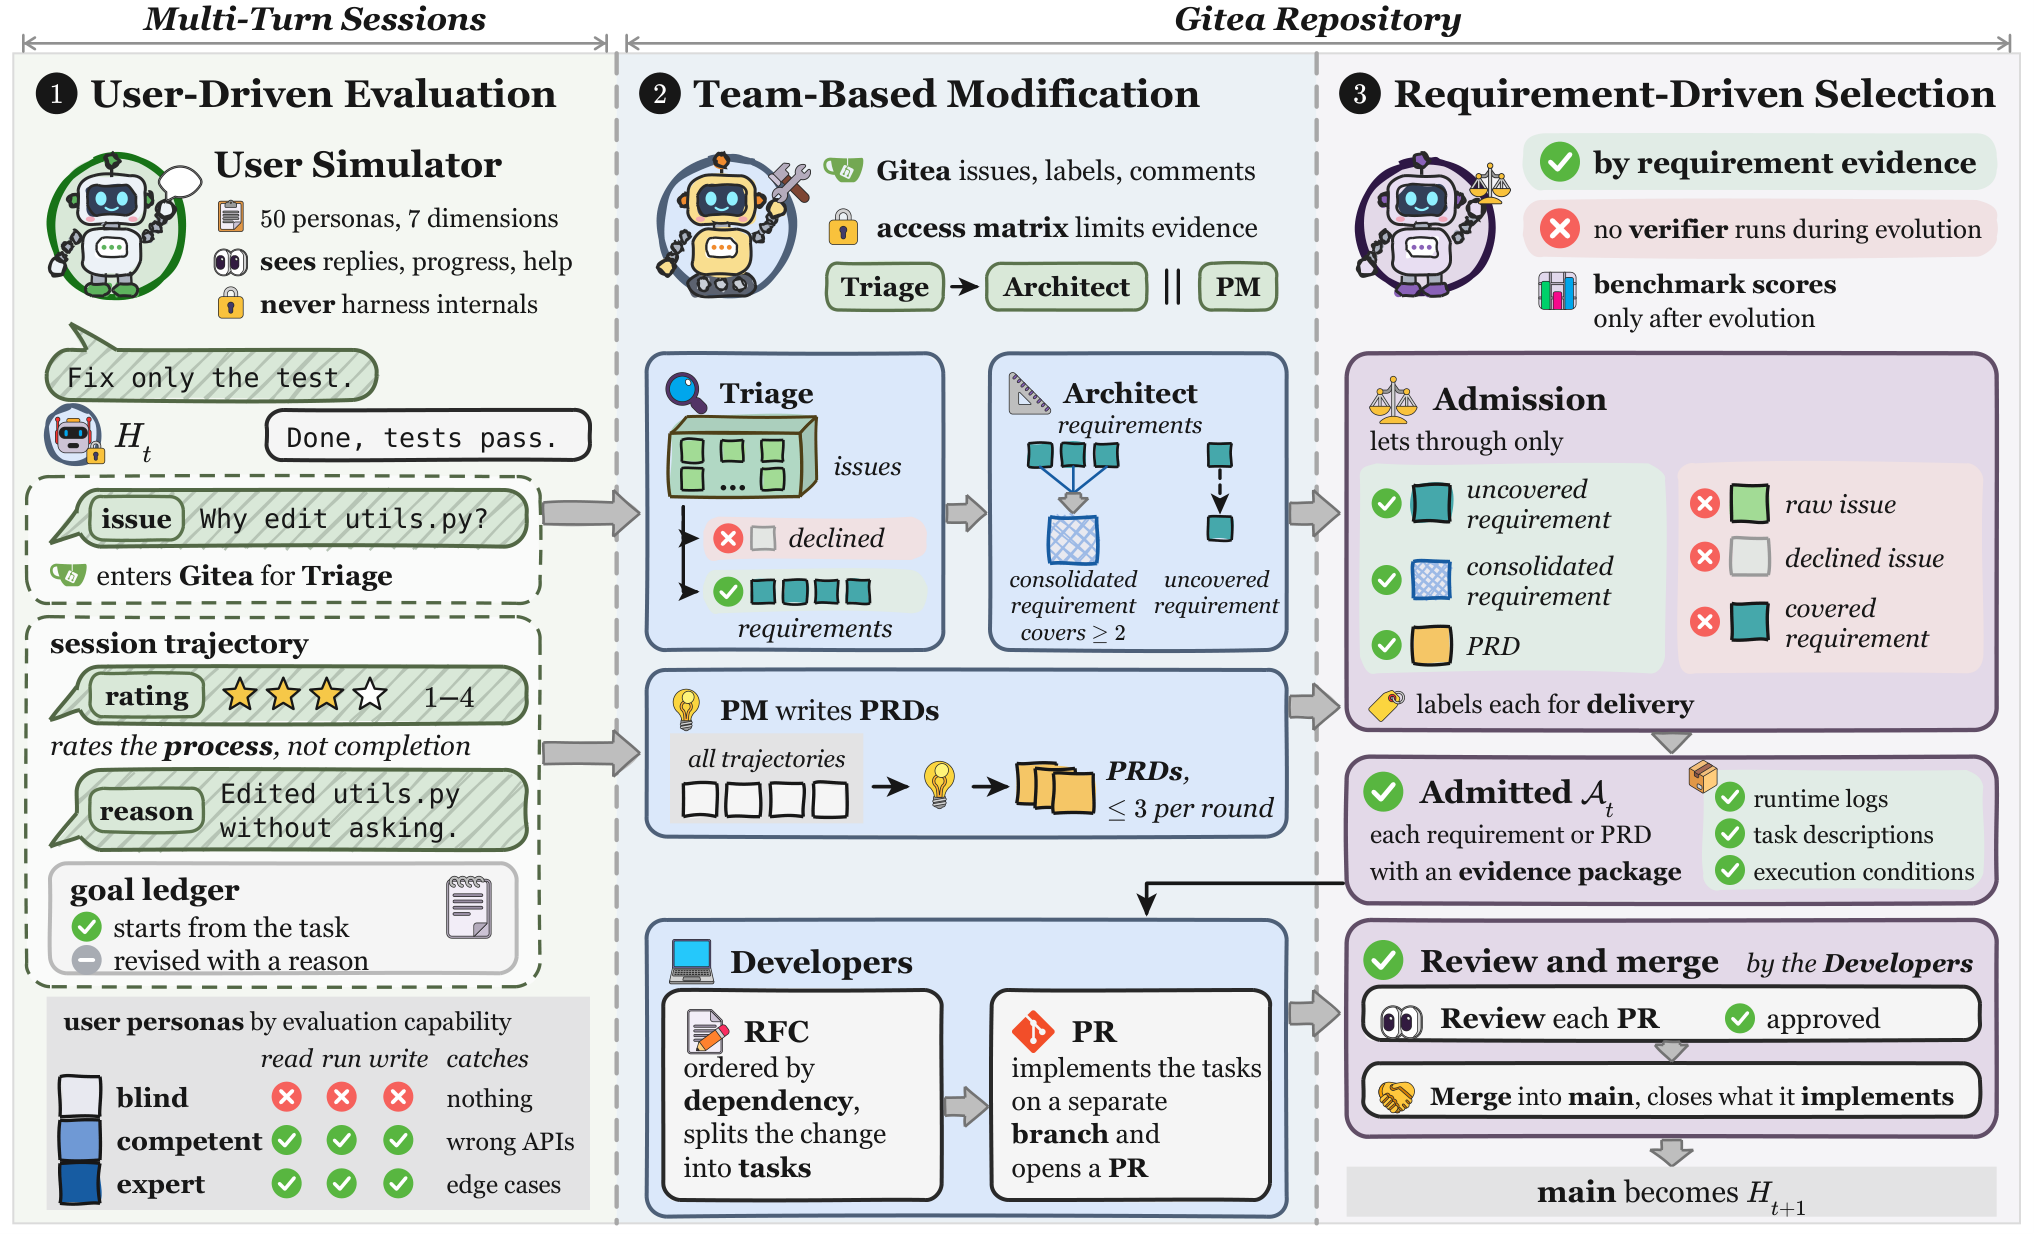
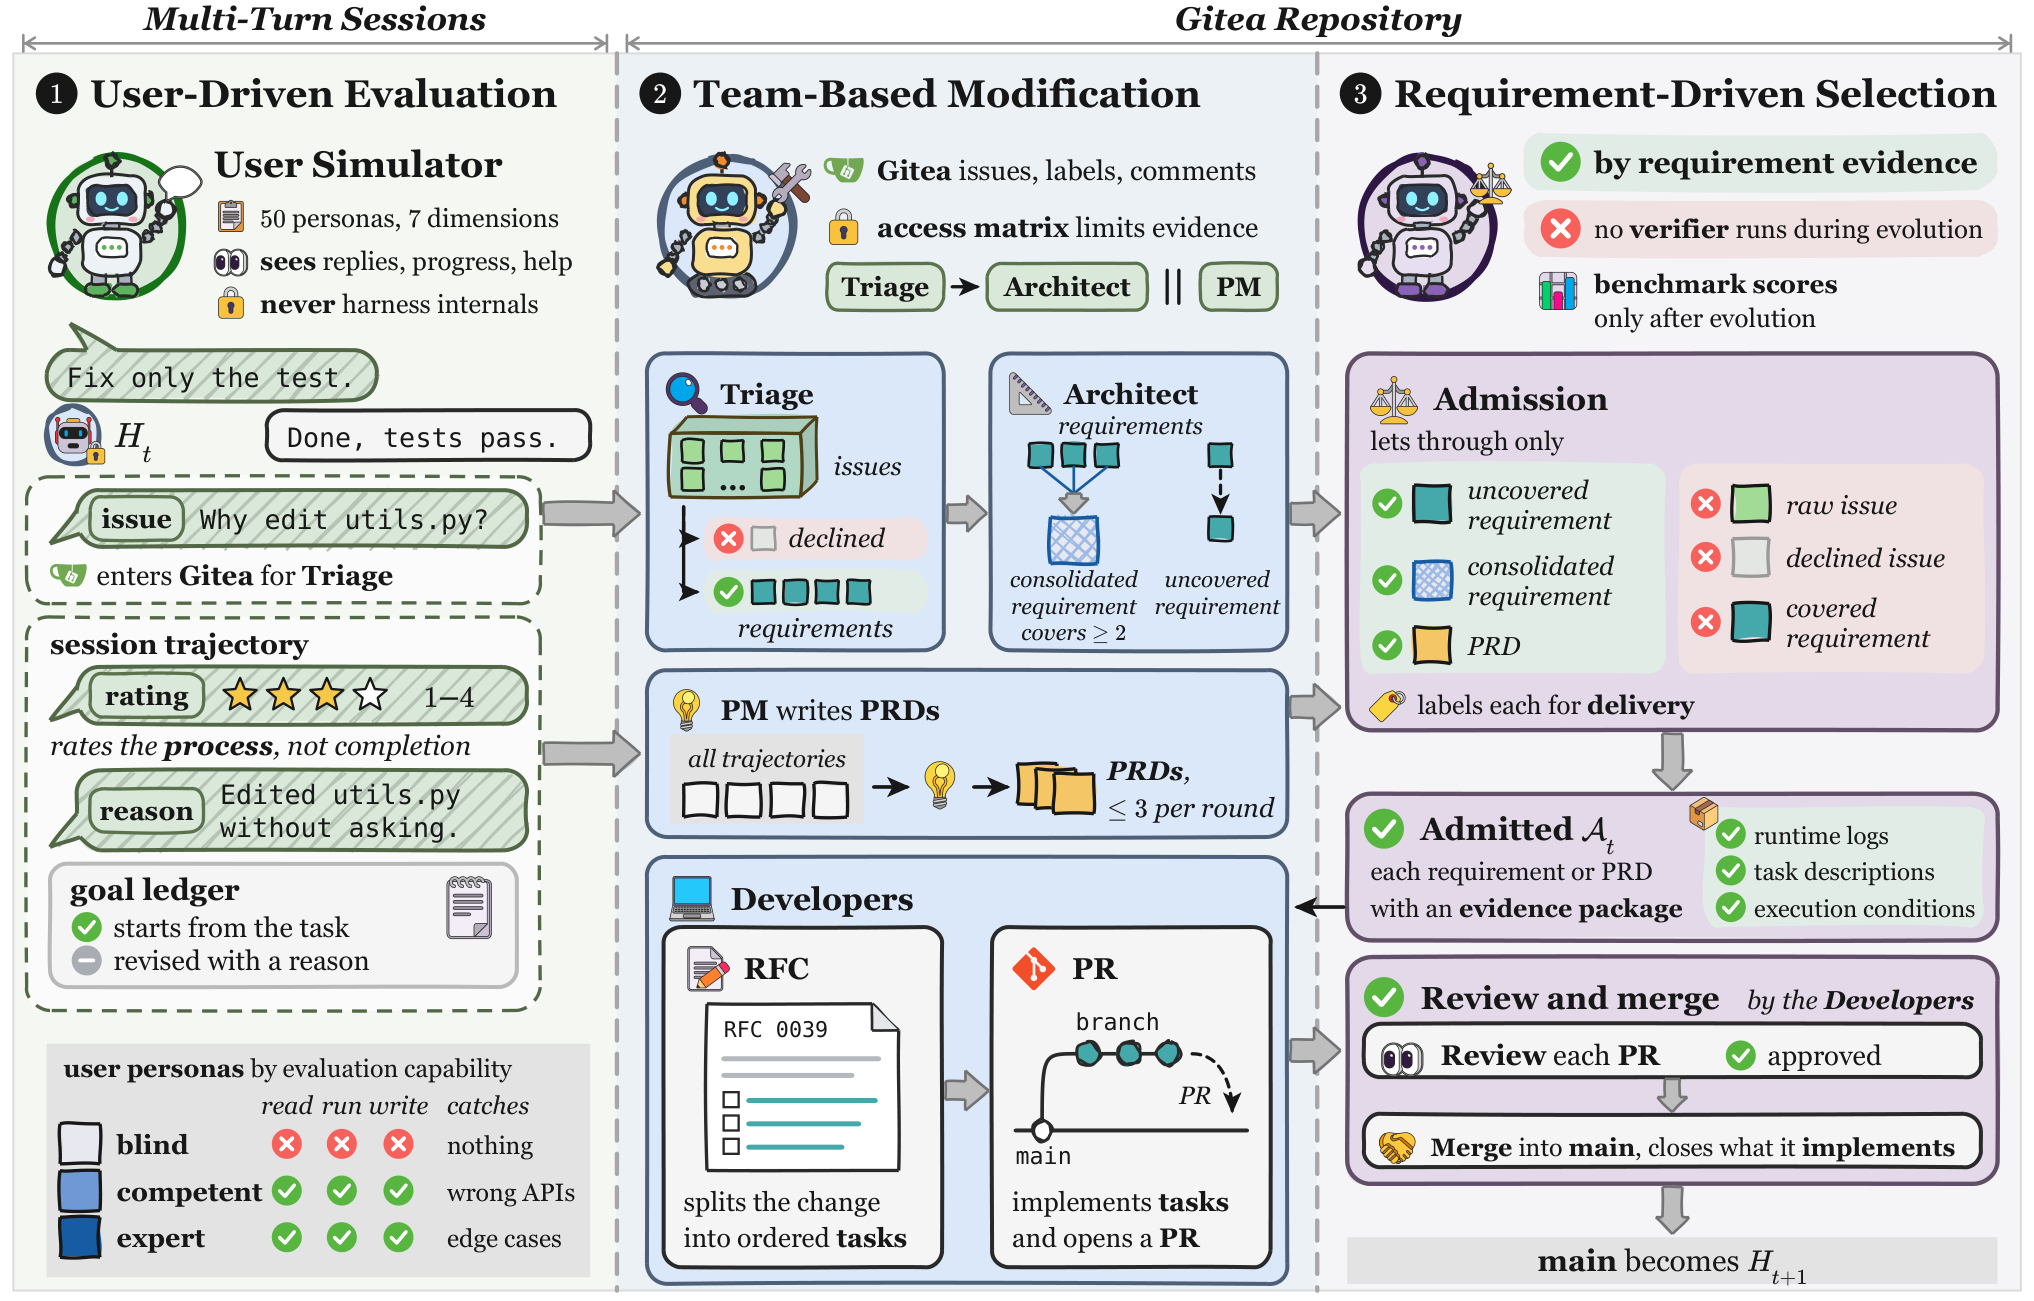
docs(readme): refresh overview figure and align token reduction with the paper

diff --git a/README.zh-CN.md b/README.zh-CN.md
@@ -27,7 +27,7 @@
 
 ### 主要结果
 
-- **留出评测表现：** 在 GLM-5.3-Flash 上的 38 项留出任务中，三次运行均值显示，相比 Base Harness，pass@1 从 **21.9% 提升至 33.3%**，user rating 从 **2.59 提升至 3.04**，Token 用量下降 **41.0%**。
+- **留出评测表现：** 在 GLM-5.3-Flash 上的 38 项留出任务中，三次运行均值显示，相比 Base Harness，pass@1 从 **21.9% 提升至 33.3%**，user rating 从 **2.59 提升至 3.04**，Token 用量下降 **40.8%**。
 - **基线对比：** AHE-Beta 的 pass@1 高于 Claude Code（**27.2%**）、AHE（**23.7%**）和 Meta-Harness（**21.1%**）。
 - **人类偏好：** 在人类盲测 A/B 研究的 **48 组有效配对中，真实用户在 31 组中偏好 AHE-Beta**，并在全部五个维度上给予更高评分。
 - **迁移效果：** 无需进一步演进，相比 Base Harness，pass@1 在 **GLM-5.3 上提升 15.8 个百分点**，在 **DeepSeek-V4.1-Flash 上提升 5.3 个百分点**。

diff --git a/README.md b/README.md
@@ -27,7 +27,7 @@
 
 ### Main results
 
-- **Held-out performance:** on 38 held-out tasks with GLM-5.3-Flash, averaged over three runs, pass@1 rises from **21.9% to 33.3%** and user rating from **2.59 to 3.04** over Base Harness, with **41.0%** fewer tokens.
+- **Held-out performance:** on 38 held-out tasks with GLM-5.3-Flash, averaged over three runs, pass@1 rises from **21.9% to 33.3%** and user rating from **2.59 to 3.04** over Base Harness, with **40.8%** fewer tokens.
 - **Strong baselines:** AHE-Beta exceeds Claude Code (**27.2%**), AHE (**23.7%**) and Meta-Harness (**21.1%**) in pass@1.
 - **Human preference:** in a blind human A/B test, real users prefer AHE-Beta in **31 of 48 valid pairs** and rate it higher on all five dimensions.
 - **Transfer:** without further evolution, pass@1 improves over Base Harness by **15.8 percentage points on GLM-5.3** and **5.3 points on DeepSeek-V4.1-Flash**.
